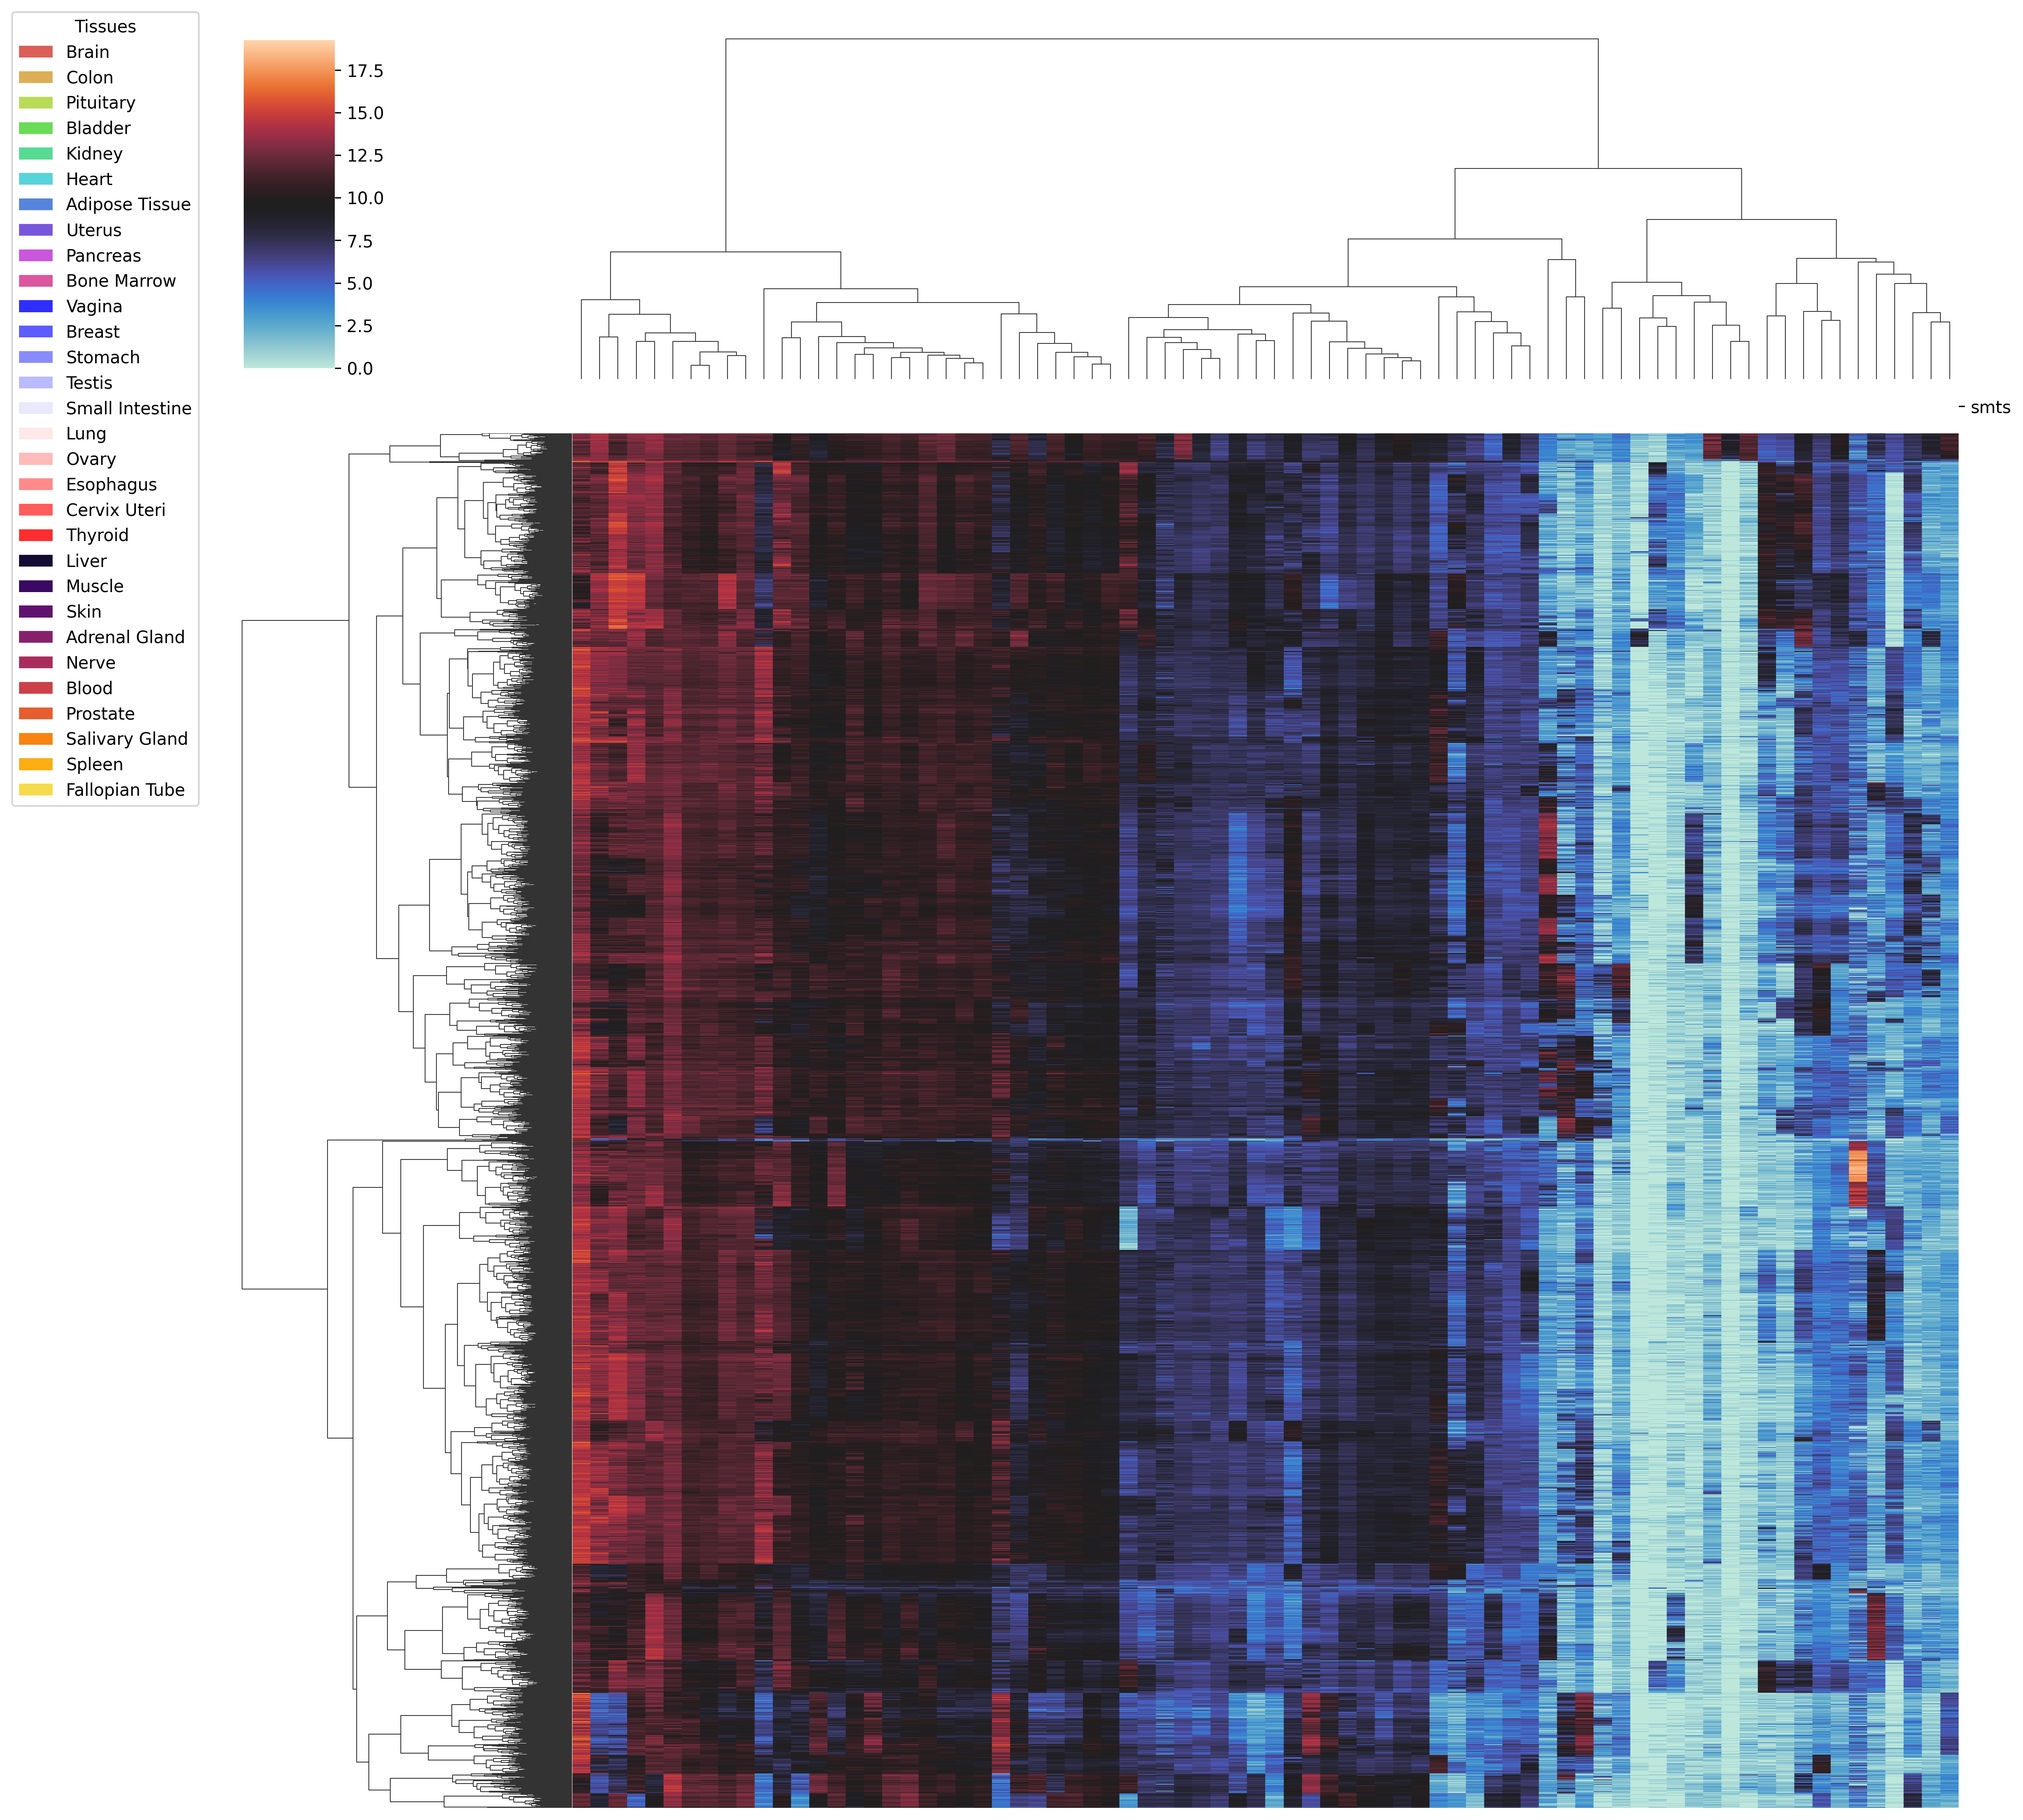
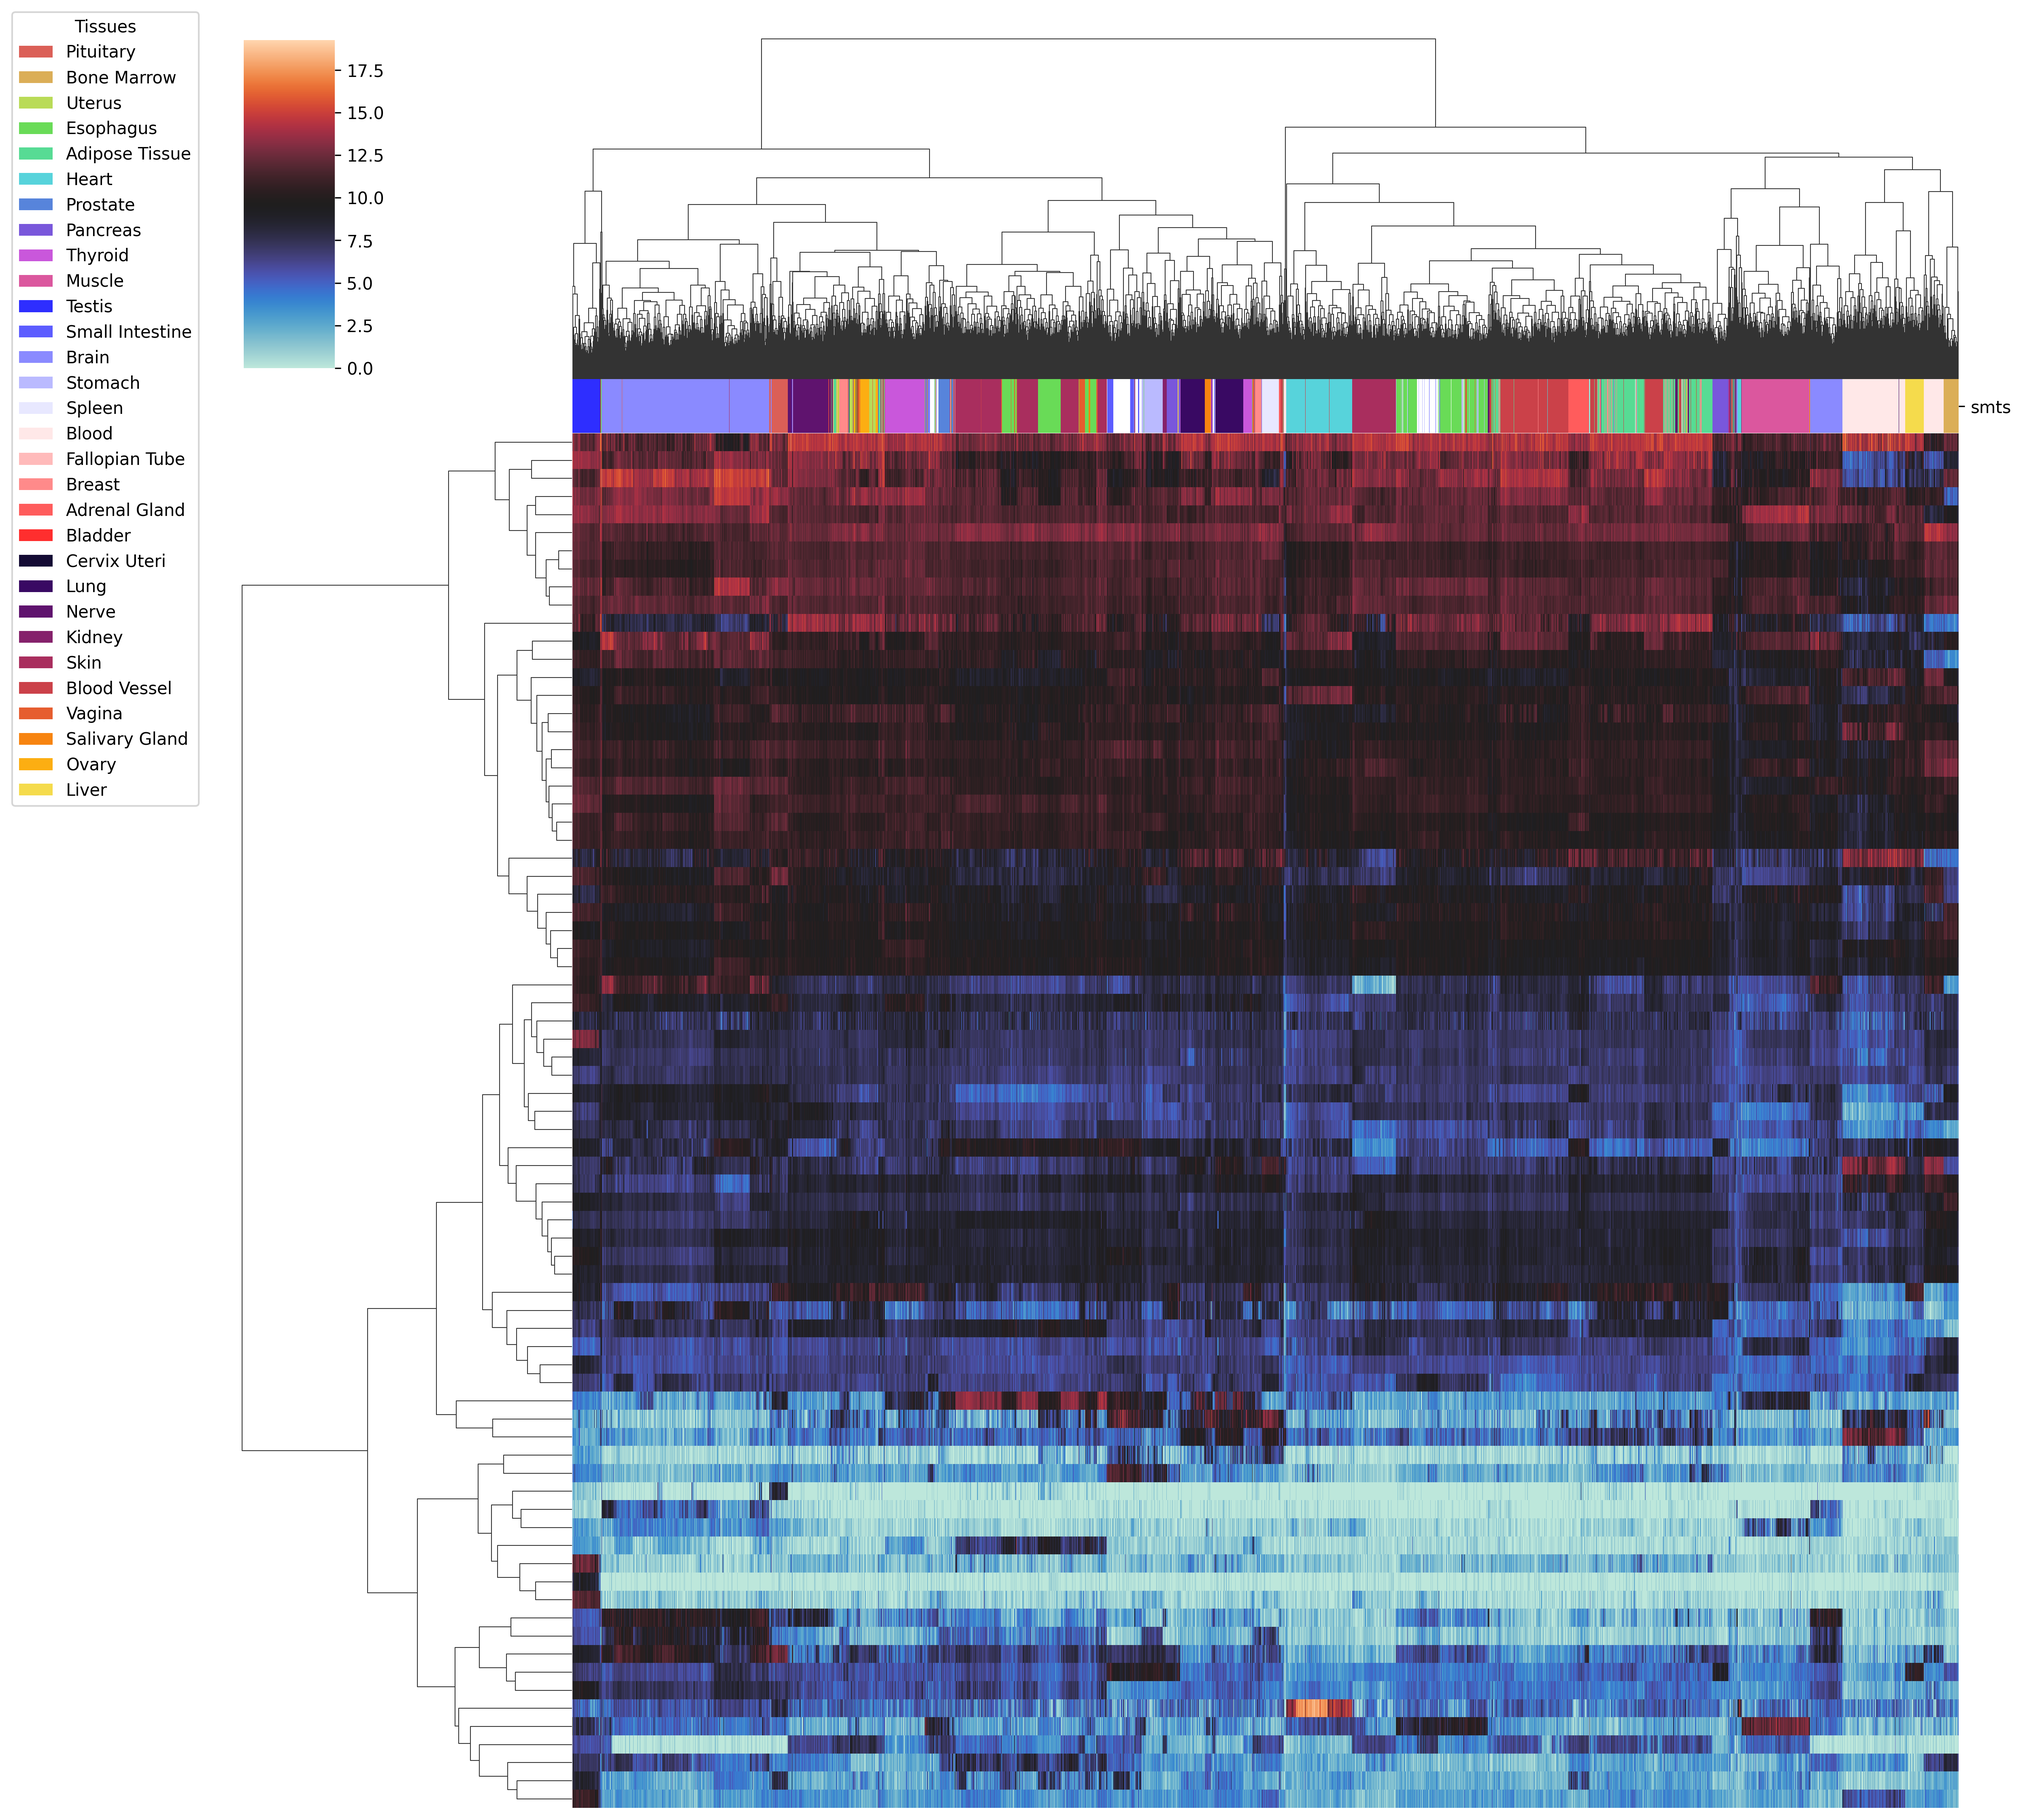
finished clustermaps except norm

diff --git a/6_Clustering.py b/6_Clustering.py
@@ -189,7 +189,7 @@ def clustering_samples_genes(
                 bbox_transform = plt.gcf().transFigure)
 
         else:
-            g = sns.clustermap(count, 
+            g = sns.clustermap(count.T, 
                 vmin = max(count.max(axis = 1)), 
                 vmax = min(count.min(axis = 1)), 
                 col_colors = col_colors,
@@ -236,7 +236,7 @@ if __name__ == '__main__':
         g_img_clstr76 = Config.args.IclusterTop76G,
         g_img_clstrCv = Config.args.IclusterCVG,
         g_img_clstr_nrcv = Config.args.IclstrNonRcvG)
-
+    
     clustering_samples_genes(
         meta = Config.args.meta,
         cv_list = Config.args.list,
